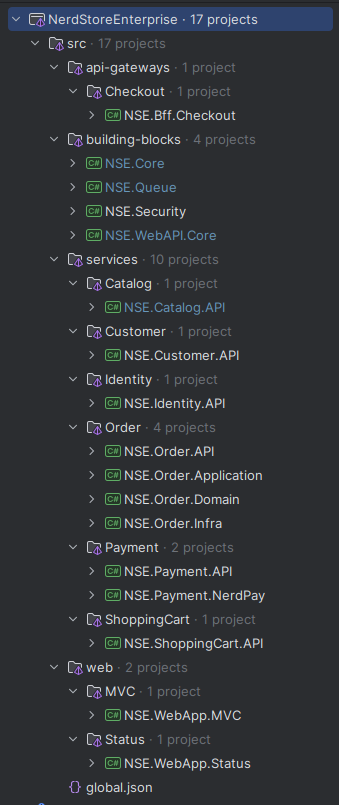
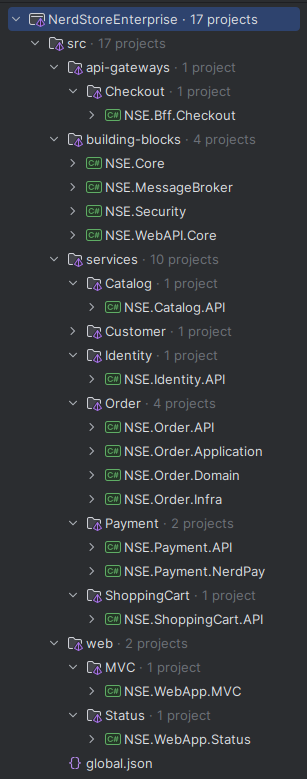
docs: :memo: update doc

Changed region(s): [[0.0879, 0.0, 0.8502, 1.0], [0.9674, 0.0, 0.9967, 0.0308]]

diff --git a/README.md b/README.md
@@ -252,13 +252,14 @@ Este projeto foi implementado práticas de DevSecOps, garantindo segurança em t
 Abaixo está um resumo das etapas executadas em cada build:
 
 1. **Execução do Horusec (SAST):** Identificar vulnerabilidades no código-fonte antes da aplicação ser compilada ou executada.
-2. **Execução do Dependency-Check (SCA):** Detectar bibliotecas e dependências vulneráveis.
-3. **Análise de IaC com KICS:** Analisar arquivos de configuração e infraestrutura (Terraform, Kubernetes, Docker) para encontrar falhas de segurança antes do provisionamento.
-4. **Varredura de containers com Trivy:** Analisar imagens Docker em busca de vulnerabilidades em pacotes do sistema operacional e bibliotecas de aplicação.
+1. **Execução do Dependency-Check (SCA):** Detectar bibliotecas e dependências vulneráveis.
+1. **Execução do GitLeaks (Secret Scan):** Detectar informações sensíveis que foram parar no repositório por engano, como Tokens de API, Senhas, Chaves SSH, etc.
+1. **Análise de IaC com KICS:** Analisar arquivos de configuração e infraestrutura (Terraform, Kubernetes, Docker) para encontrar falhas de segurança antes do provisionamento.
+1. **Varredura de containers com Trivy:** Analisar imagens Docker em busca de vulnerabilidades em pacotes do sistema operacional e bibliotecas de aplicação.
 
 #### 🛠 Secure Pipeline
 <p align="center">
-    <img src="docs/img/devsecops-pipeline.jpeg" />
+    <img src="docs/img/devsecops-pipeline-2.png" />
 </p>
 
 ## 📁 Estrutura de Pastas
@@ -269,19 +270,21 @@ Abaixo está um resumo das etapas executadas em cada build:
 
 ## 🚀 Como executar o projeto
 
+### 🐳 Docker
+
 Você pode executar o projeto **NerdStore** em qualquer sistema operacional.  
 **Certifique-se de que o Docker está instalado em seu ambiente.**  
 ([Instalar o Docker](https://docs.docker.com/get-docker/))
 
 Clone o repositório do `nerd-store-enterprise` e navegue até a pasta **infra/docker**. Em seguida:
 
-### ▶ Se você apenas quiser executar a aplicação NerdStore no seu ambiente Docker:
+#### ▶ Se você apenas quiser executar a aplicação NerdStore no seu ambiente Docker:
 
 ```bash
 docker-compose up
 ```
 
-### </> Se você quiser executar em ambiente de desenvolvimento para debug:
+#### </> Se você quiser executar em ambiente de desenvolvimento para debug:
 
 ```bash
 # Rodar RabbitMQ Local
@@ -312,7 +315,7 @@ Status: https://localhost:4211
 E-commerce: https://localhost:5401
 ```
 
-### 🏗 Se você quiser gerar as imagens locais e executar a aplicação NerdStore no seu ambiente Docker:
+#### 🏗 Se você quiser gerar as imagens locais e executar a aplicação NerdStore no seu ambiente Docker:
 
 Este docker-compose irá fornecer **um container de banco de dados para cada serviço de API.**
 
